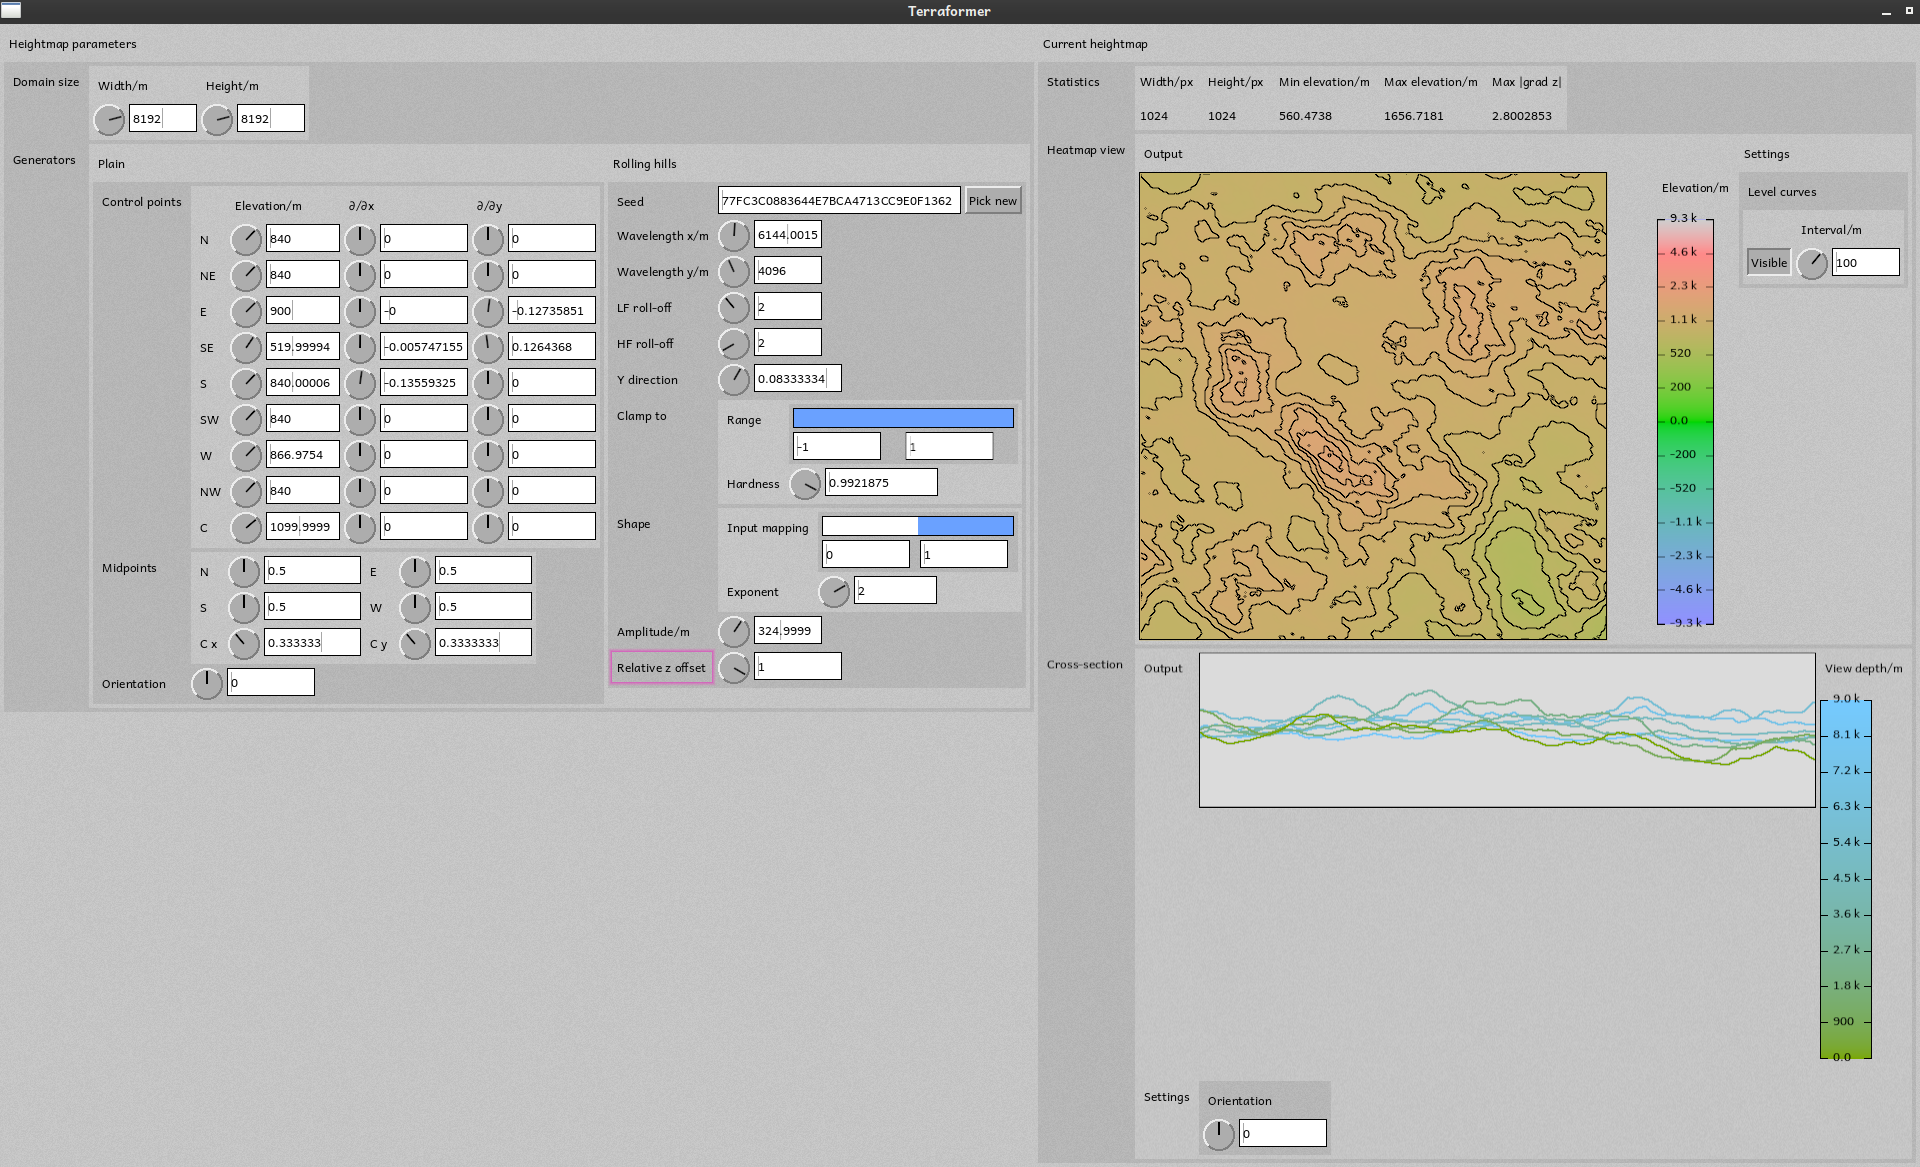
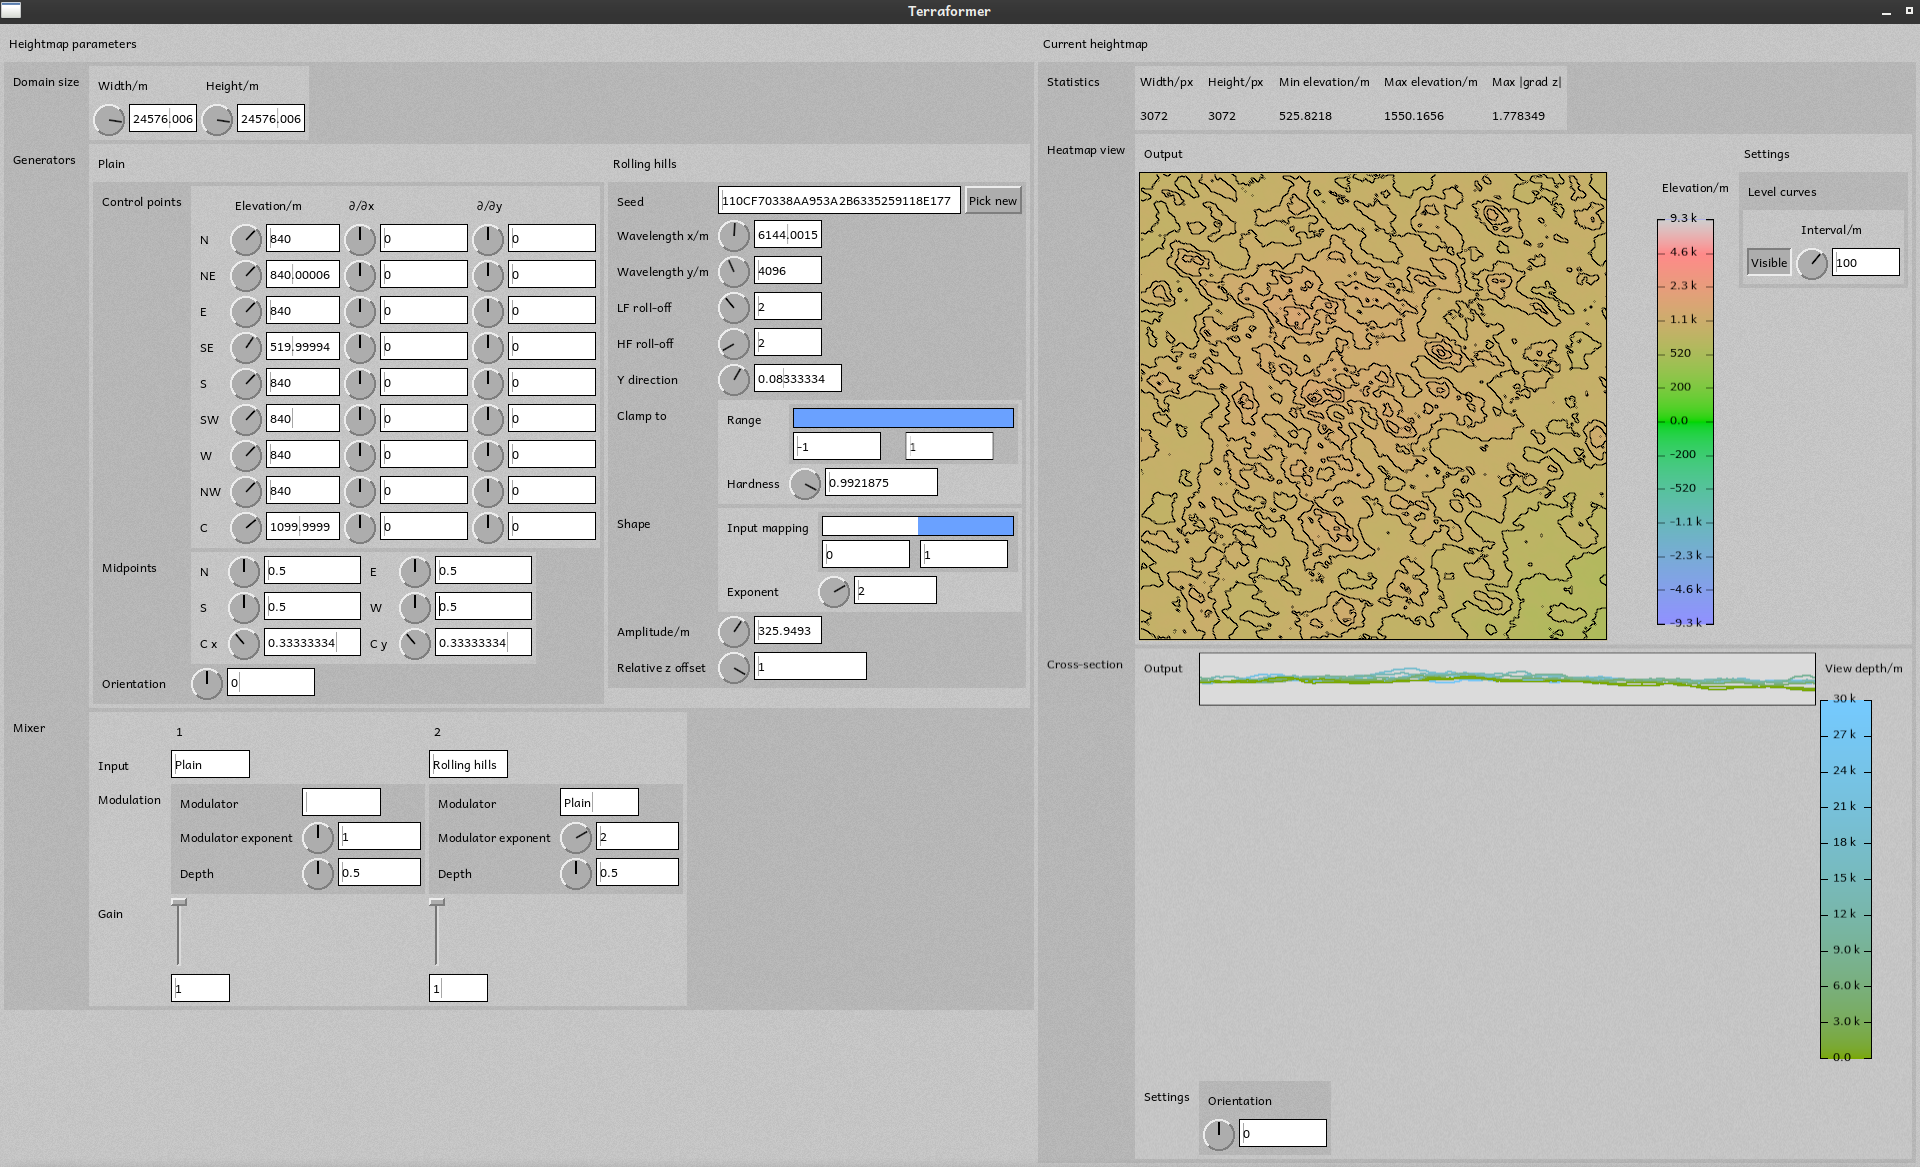
Bind implemented in modulator

diff --git a/lib/filters/modulator/modulator.cpp b/lib/filters/modulator/modulator.cpp
@@ -5,6 +5,7 @@
 #include "lib/pixel_store/image.hpp"
 #include "lib/math_utils/interp.hpp"
 #include "lib/math_utils/boundary_sampling_policies.hpp"
+#include "lib/value_maps/log_value_map.hpp"
 #include <algorithm>
 
 terraformer::grayscale_image
@@ -51,4 +52,36 @@ terraformer::filters::modulator_descriptor::compose_image_from(
 	}
 
 	return ret;
+}
+
+void terraformer::filters::modulator_descriptor::bind(descriptor_editor_ref editor)
+{
+	// TODO: Use a combobox instead
+	editor.create_string_input(u8"Modulator",
+		modulator,
+		descriptor_editor_ref::single_line_text_input_descriptor{
+			.textbox_placeholder_string = u8"Lorem ipsum"
+		}
+	);
+
+	editor.create_float_input(
+		u8"Modulator exponent",
+		modulator_exponent,
+		descriptor_editor_ref::knob_descriptor{
+			.value_map = type_erased_value_map{value_maps::log_value_map{0.25f, 4.0f, 2.0f}},
+			.textbox_placeholder_string = u8"0.123456789",
+			.visual_angle_range = std::nullopt
+		}
+	);
+
+	editor.create_float_input(
+		u8"Depth",
+		modulation_depth,
+		descriptor_editor_ref::knob_descriptor{
+			.value_map = type_erased_value_map{value_maps::affine_value_map{0.0f, 1.0f}},
+			.textbox_placeholder_string = u8"0.123456789",
+			.visual_angle_range = std::nullopt
+		}
+	);
+
 }

diff --git a/lib/generators/heightmap/heightmap.cpp b/lib/generators/heightmap/heightmap.cpp
@@ -16,9 +16,12 @@ void terraformer::heightmap_generator_channel_strip_descriptor::bind(descriptor_
 	editor.create_string_input(u8"Input",
 		input,
 		descriptor_editor_ref::single_line_text_input_descriptor{
-			.textbox_placeholder_string = u8"Foobar 99"
+			.textbox_placeholder_string = u8"Lorem ipsum"
 		}
 	);
+
+	auto modulation_editor = editor.create_form(u8"Modulation", descriptor_editor_ref::form_descriptor{});
+	modulation.bind(modulation_editor);
 
 	editor.create_float_input(
 		u8"Gain",
@@ -55,7 +58,7 @@ void terraformer::heightmap_descriptor::bind(descriptor_editor_ref editor)
 			.orientation = descriptor_editor_ref::widget_orientation::deduce,
 			.field_names = {
 				u8"Input",
-				//u8"Modulation",
+				u8"Modulation",
 				u8"Gain"
 			}
 		}

diff --git a/lib/filters/modulator/modulator.hpp b/lib/filters/modulator/modulator.hpp
@@ -7,6 +7,7 @@
 
 #include "lib/common/span_2d.hpp"
 #include "lib/pixel_store/image.hpp"
+#include "lib/descriptor_io/descriptor_editor_ref.hpp"
 
 namespace terraformer::filters
 {
@@ -21,6 +22,8 @@ namespace terraformer::filters
 			span_2d<float const> input,
 			image_registry_view control_images
 		) const;
+
+		void bind(descriptor_editor_ref);
 	};
 }
 
